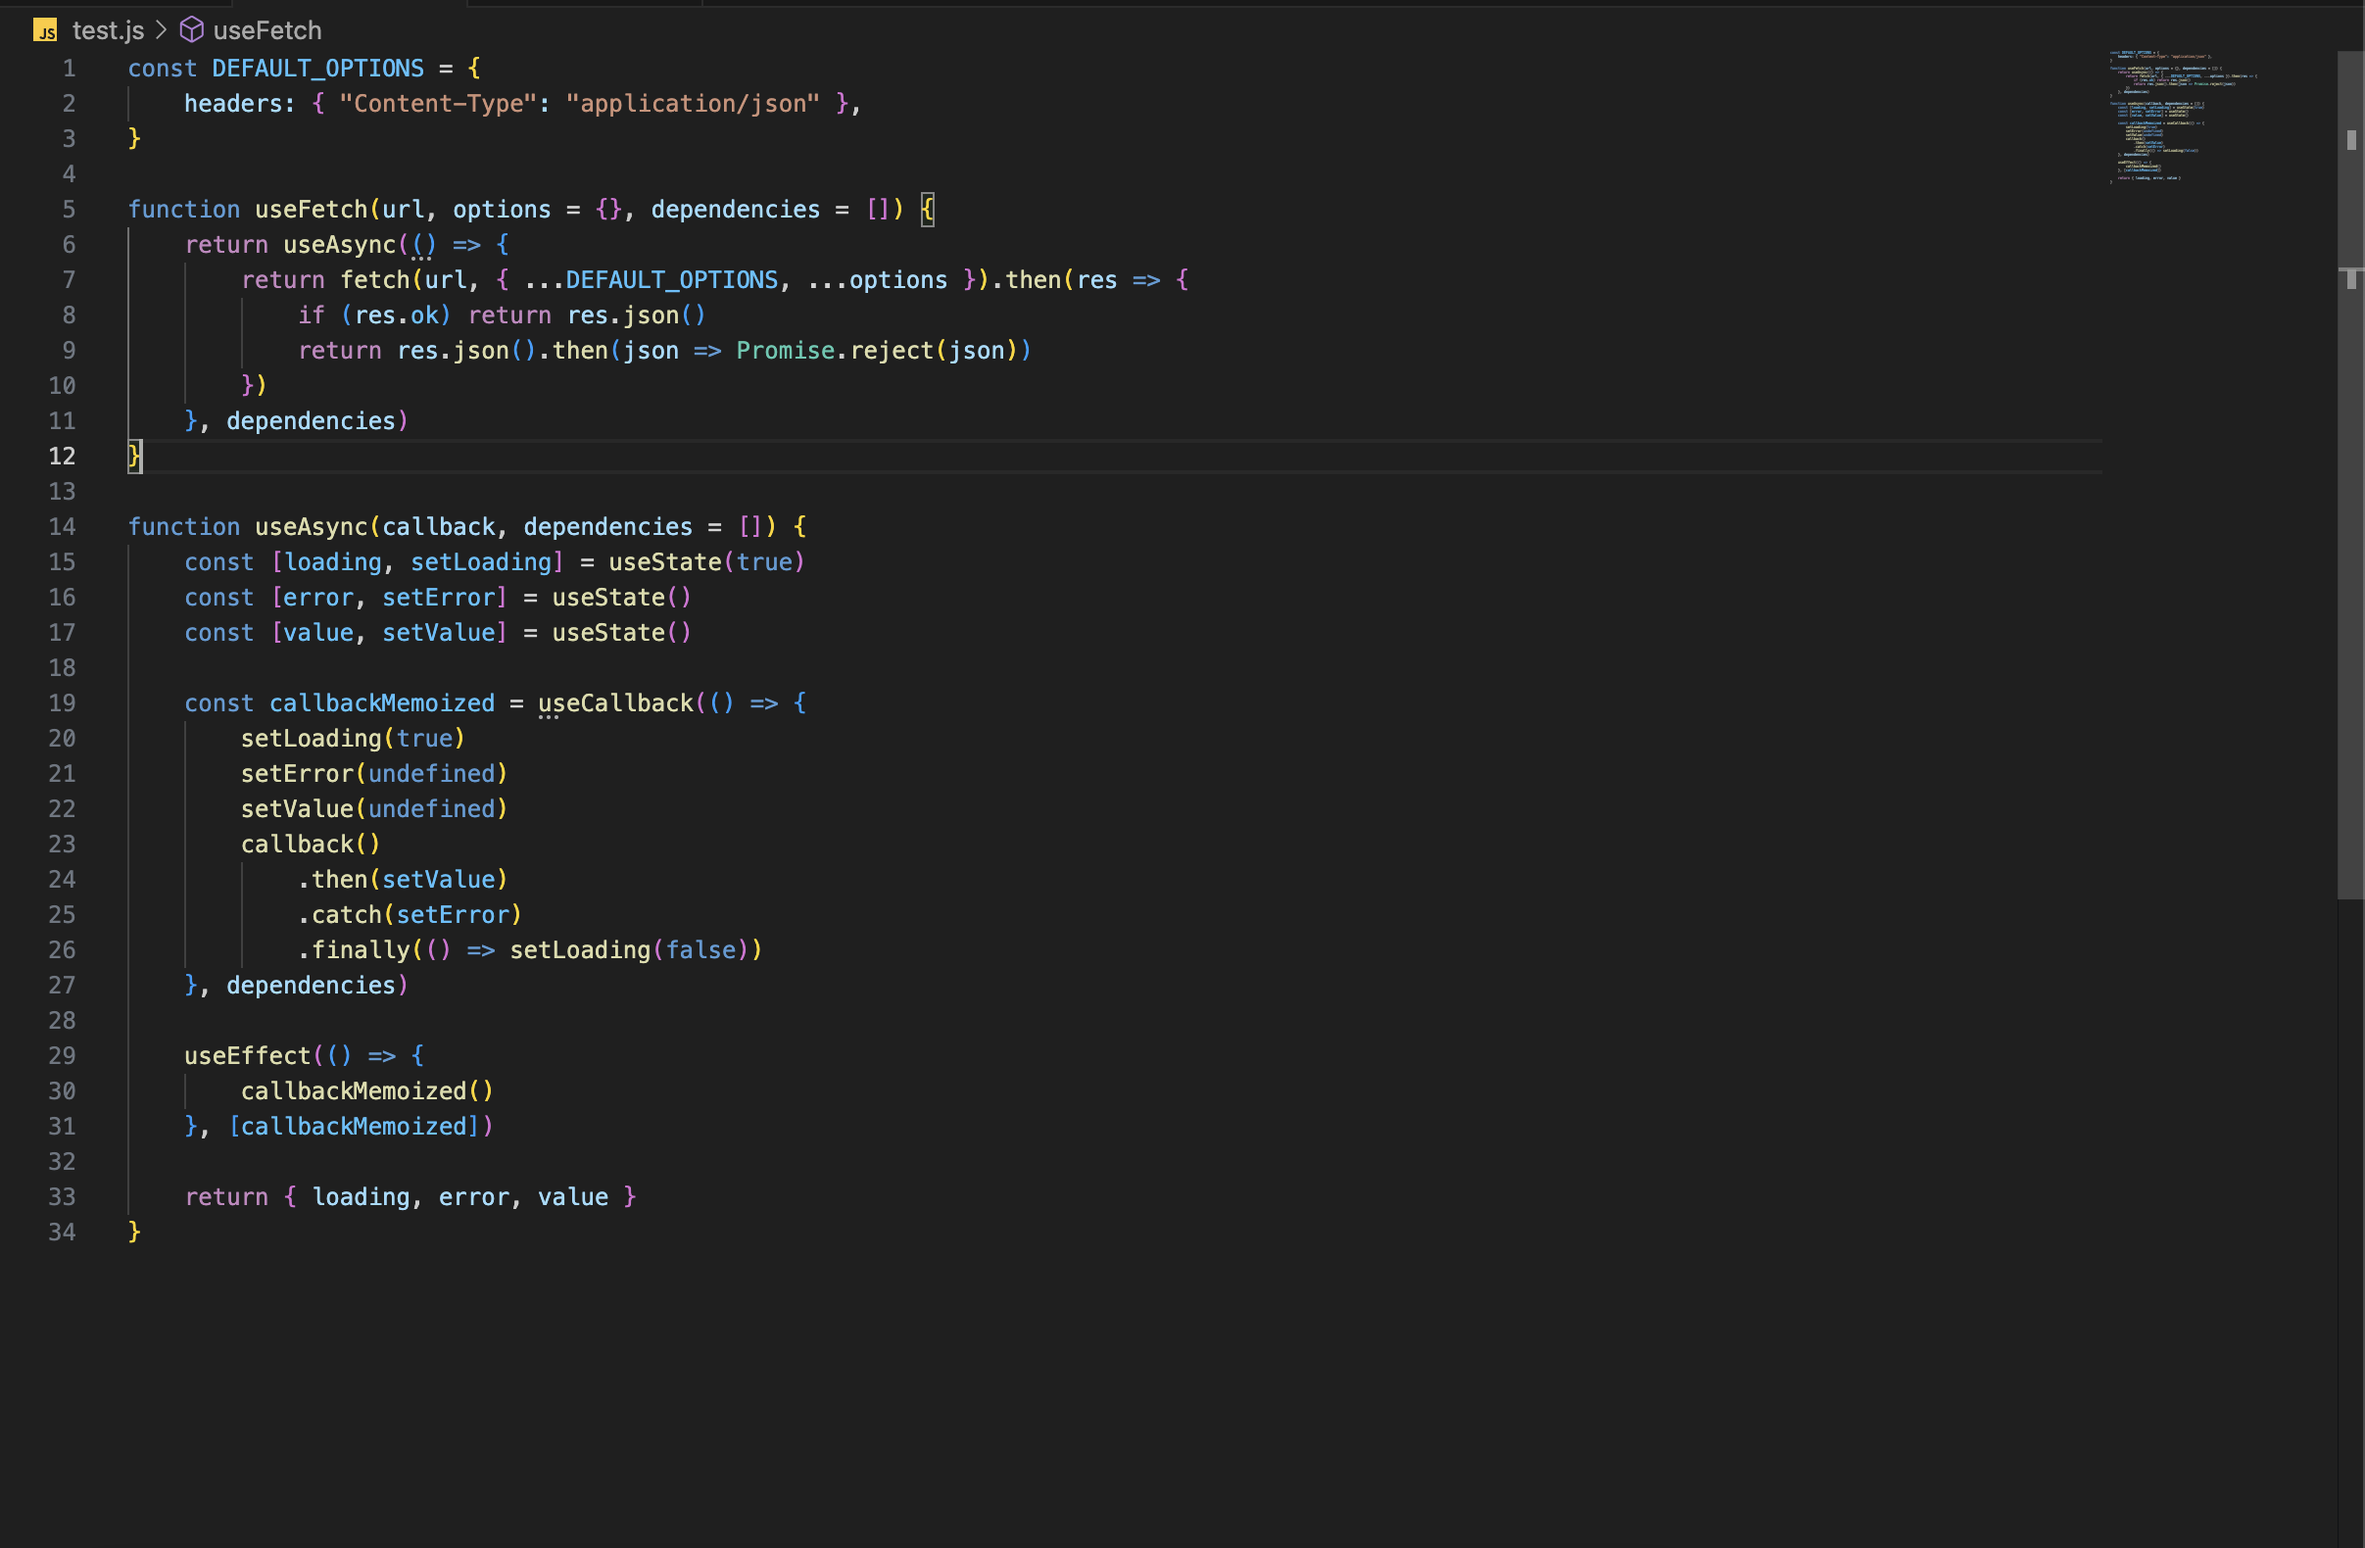
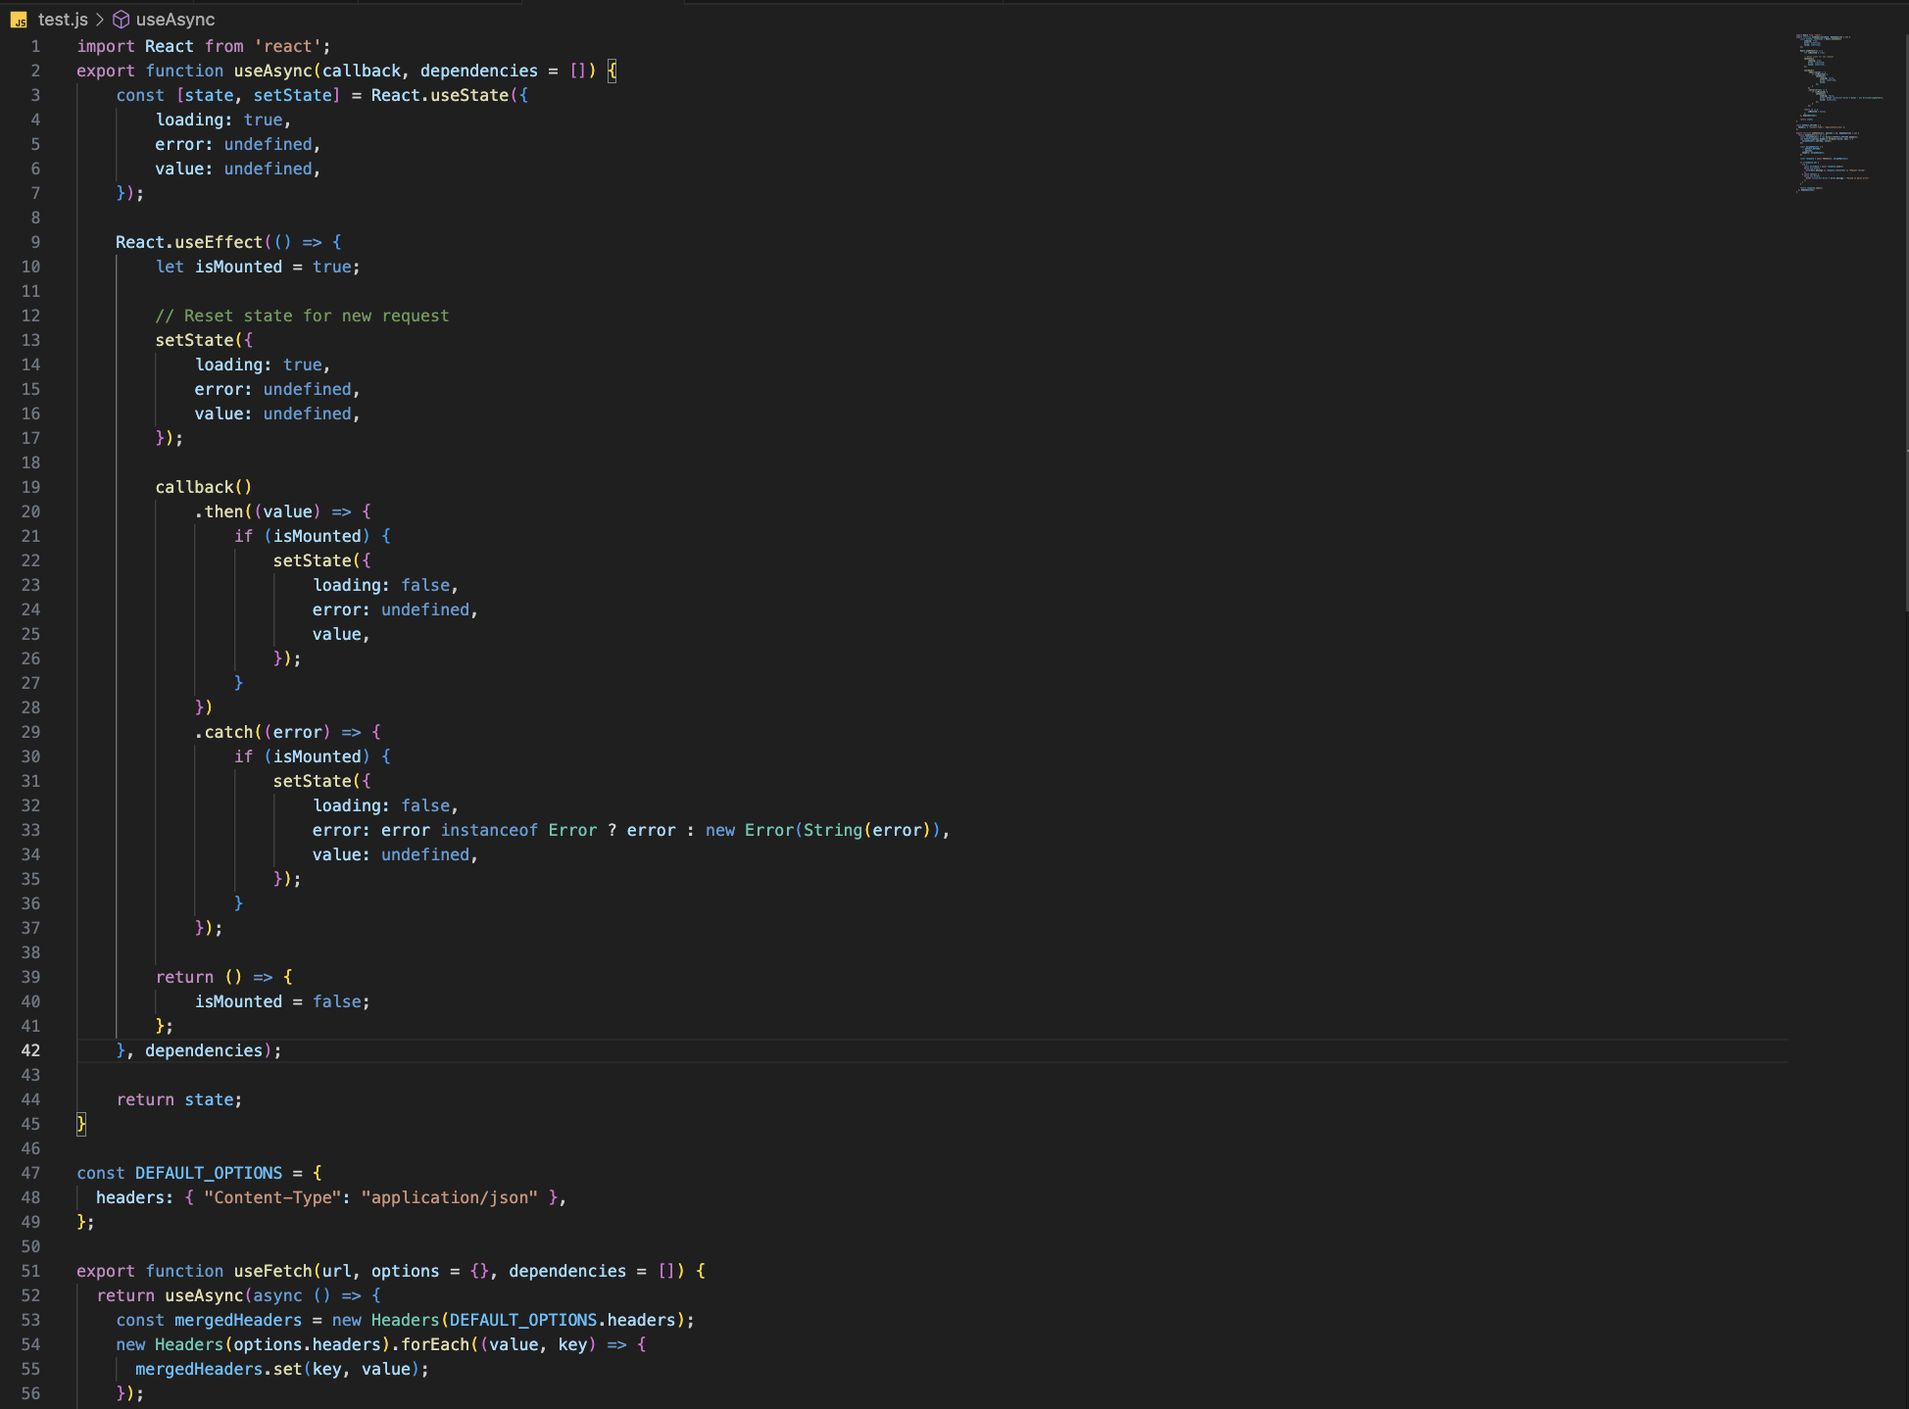
docs: add updated images and videos

diff --git a/README.md b/README.md
@@ -22,7 +22,7 @@ Enhance your development workflow with this VS Code extension that offers a coll
 2. Type the snippet prefix (e.g., `useFetch`).
 3. Select the snippet from the suggestion list to insert it into your code.
 
-![Manual](./images/assets/manual.mov)
+![Manual](./images/assets/manual.mp4)
 
 ### Javascript Support With Javascript code
 
